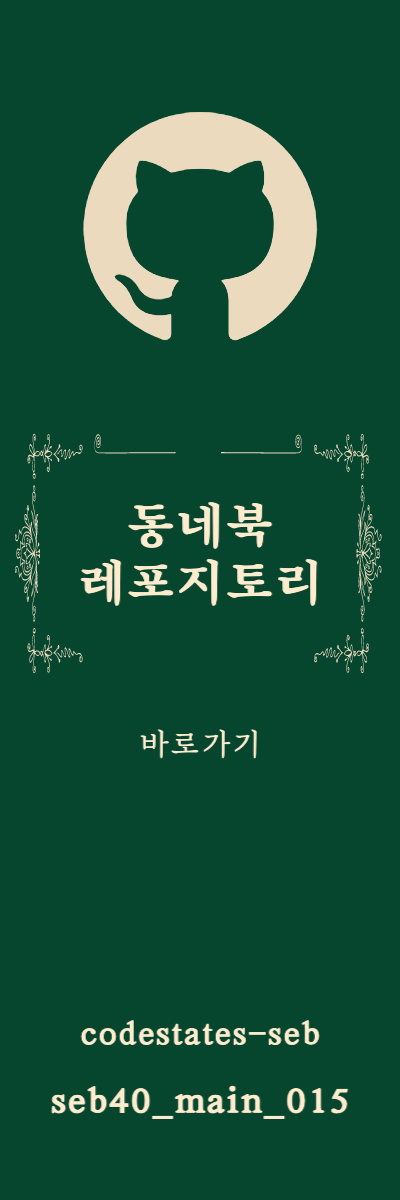
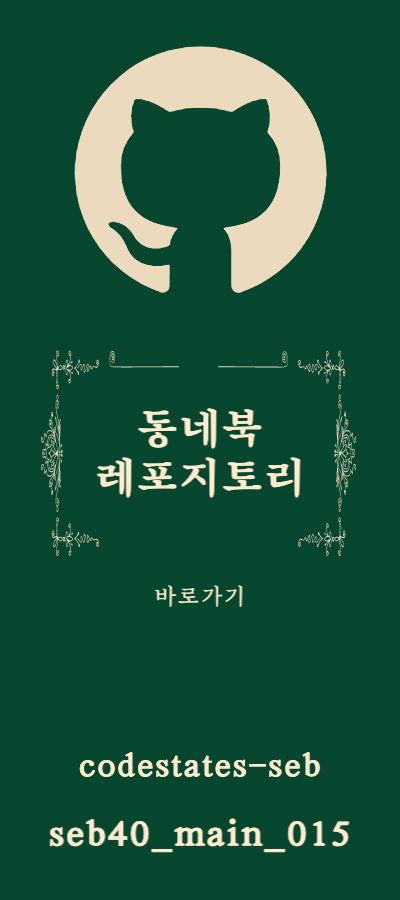
design: qr코드 추가

diff --git a/frontend/src/components/common/PcVersion/Asides/Repository.tsx b/frontend/src/components/common/PcVersion/Asides/Repository.tsx
@@ -1,6 +1,7 @@
 import { useLocation } from 'react-router';
 import styled from 'styled-components';
 import repository from '../../../../assets/image/repository.png';
+import qr from '../../../../assets/image/qr.png';
 import { useAppSelector } from '../../../../redux/hooks';
 
 const Repository = () => {
@@ -10,20 +11,20 @@ const Repository = () => {
 	if (pathname === '/history' && !isLogin) return null;
 
 	return (
-		<StyledRepository href="https://github.com/codestates-seb/seb40_main_015">
-			<StyledImg src={repository} alt="" />
+		<StyledRepository>
+			<Container>
+				<div>
+					<QrImg src={qr} alt="동네북 qr코드" />
+				</div>
+				<a href="https://github.com/codestates-seb/seb40_main_015">
+					<RepoImg src={repository} alt="동네북 레포지토리 바로가기" />
+				</a>
+			</Container>
 		</StyledRepository>
 	);
 };
 
-const StyledRepository = styled.a`
-	margin: 10rem 2rem 0 4.5vw;
-`;
-
-const StyledImg = styled.img`
-	width: 13rem;
-	position: sticky;
-	top: 8rem;
+const StyledRepository = styled.div`
 	display: none;
 	@media screen and (min-width: 1400px) {
 		animation: fadeInLeft 1s;
@@ -39,6 +40,24 @@ const StyledImg = styled.img`
 			transform: translateZ(0);
 		}
 	}
+`;
+
+const Container = styled.div`
+	position: sticky;
+	top: 6rem;
+	margin: 6rem 2rem 0 4.5vw;
+	display: flex;
+	flex-direction: column;
+	align-items: center;
+`;
+
+const QrImg = styled.img`
+	width: 10rem;
+	margin-bottom: 1rem;
+`;
+
+const RepoImg = styled.img`
+	width: 12rem;
 `;
 
 export default Repository;
